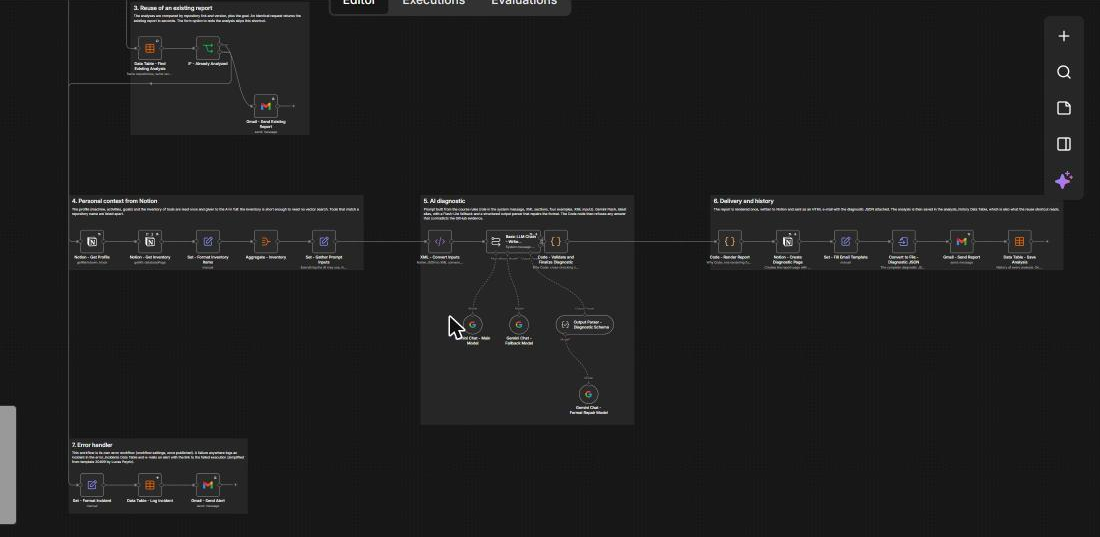
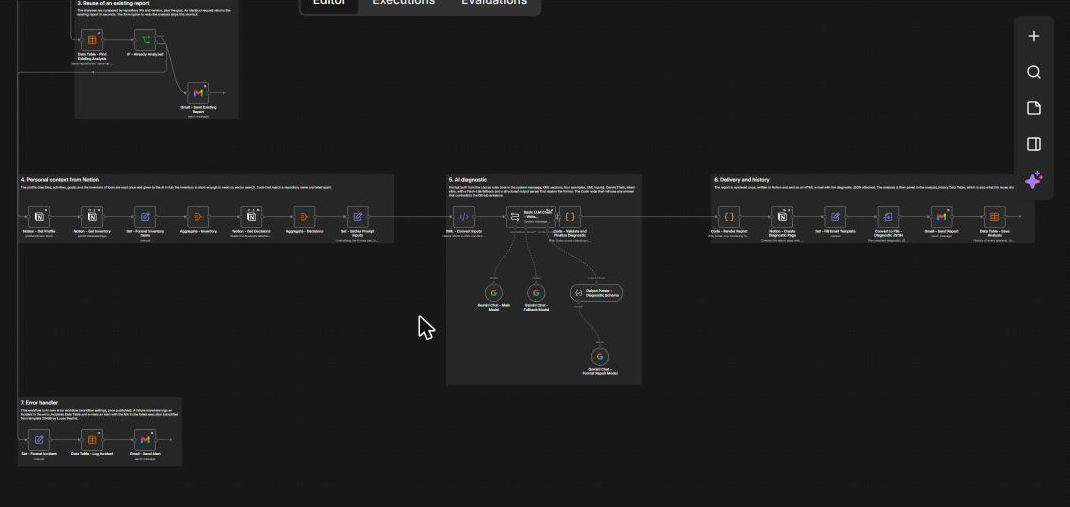
docs(n8n): document the decisions, refresh the canvas screenshots and the test notes

diff --git a/n8n_workflow/README.md b/n8n_workflow/README.md
@@ -6,11 +6,11 @@
 
 | | |
 |---|---|
-| Workflow | `Can My PC Run It` : **1 workflow, 48 nodes** en 7 blocs numérotés, 13 sticky notes |
+| Workflow | `Can My PC Run It` : **1 workflow, 50 nodes** en 7 blocs numérotés, 13 sticky notes |
 | Formats livrés | [`n8n/workflows/can-my-pc-run-it.workflow.ts`](n8n/workflows/can-my-pc-run-it.workflow.ts) (SDK n8n, pour n8n-cli) et [`exports/can-my-pc-run-it.json`](exports/can-my-pc-run-it.json) (import direct) |
 | Schéma du diagnostic | version 3.0 (JSON joint à chaque e-mail) |
 | Données | 2 Data Tables n8n, remplies par le workflow lui-même |
-| Version | 3.0 — 23 octobre 2026 : les 7 workflows de la v2 (environ 150 nodes) deviennent un workflow de 48 nodes. La variante complète à 157 nodes est conservée dans [`archive/`](archive/v3-full-157-nodes/) |
+| Version | 3.0 — 23 octobre 2026 : les 7 workflows de la v2 (environ 150 nodes) deviennent un workflow de 50 nodes. La variante complète à 157 nodes est conservée dans [`archive/`](archive/v3-full-157-nodes/) |
 
 ## Aperçu
 
@@ -47,7 +47,7 @@ flowchart LR
   V -- oui --> G["GitHub (nodes natifs)<br/>release stable, README, issues<br/>1 passage par dépôt"]
   G --> R{"Déjà analysé ?<br/>même lien + version + objectif"}
   R -- oui --> RU["Rapport existant<br/>par e-mail (0 appel IA)"]
-  R -- non --> C["Contexte Notion<br/>profil + inventaire"]
+  R -- non --> C["Contexte Notion<br/>profil + inventaire<br/>+ tes décisions"]
   C --> AI["Gemini Flash (latest)<br/>secours Flash-Lite<br/>sortie JSON stricte"]
   AI --> VC["Contrôle de cohérence<br/>(preuves GitHub > IA)"]
   VC --> N["Page Notion"]
@@ -75,7 +75,7 @@ flowchart LR
 | Workflow propre | noms « Outil - Action » en Title Case anglais, variables en camelCase, un seul `CONFIGURATION`, 7 blocs, notes sur les nodes importants |
 | Nodes natifs d'abord | GitHub, Notion, Gmail, Data Table, Loop Over Items, Switch, XML, Convert to File, Extract from File, chaîne LLM Gemini avec parseur et modèle de secours. **Aucun HTTP Request.** Seuls 2 Code nodes, justifiés dans leur note : rendu du rapport (Markdown + HTML depuis le même JSON) et contrôle du diagnostic |
 | Modèles IA « latest » | `gemini-flash-latest` et `gemini-flash-lite-latest`, modifiables dans `CONFIGURATION` |
-| Moins de workflows | 1 workflow, 48 nodes (la v2 en comptait 7 et environ 150) |
+| Moins de workflows | 1 workflow, 50 nodes (la v2 en comptait 7 et environ 150) |
 | n8n-cli | `n8ncli validate` et `n8ncli lint --fail-on-warnings` passent sans avertissement |
 | Data Tables remplies | 2 tables, alimentées à chaque exécution (voir plus bas) |
 | Prompt bien fait | rôle dans le message système, sections XML, 4 exemples, entrées en XML, schéma JSON strict, réponse validée par code : [docs/PROMPTS.md](docs/PROMPTS.md) |
@@ -89,12 +89,24 @@ flowchart LR
 
 Un rapport est retrouvé par la **clé de réutilisation** = les dépôts avec leur version (`proprietaire/depot@tag`) et l'objectif. Même lien, même version, même objectif : le rapport existant est renvoyé sans appel IA. Une nouvelle release change la clé, donc relance l'analyse. L'option « Refaire l'analyse » du formulaire ignore le raccourci.
 
+## Tes décisions : installé, ignoré, désinstallé
+
+La base Notion « Analyses » a une propriété **`Decision`** (sélection : `installé`, `ignoré`, `désinstallé`) que **tu remplis à la main** sur la page d'une analyse. Le workflow ne l'écrit jamais ; il la **lit à chaque analyse** et la donne à l'IA :
+
+| Décision sur une analyse | Ce que fait l'IA aux analyses suivantes |
+|---|---|
+| `installé` | le dépôt est **connu** même s'il n'est pas dans l'inventaire : relation « même outil » avec ta version analysée, et il compte parmi tes outils présents pour chercher doublons, compléments et conflits avec les autres dépôts |
+| `ignoré` | elle le rappelle et ne le recommande plus, sauf changement essentiel |
+| `désinstallé` | elle le traite comme absent et signale le motif comme une inconnue |
+
+Une décision s'applique à une analyse d'un **seul dépôt** (les pages de comparaison sont ignorées) ; s'il y en a plusieurs pour le même dépôt, la plus récente compte. Pour garder l'état d'un outil à long terme, l'inventaire (`Etat`, `Presence`, `Version`) reste la référence. La réutilisation ne regarde pas les décisions : après un changement, mets « Refaire l'analyse » sur Oui.
+
 ## Mise en service
 
 ### 1. Prérequis
 
 - n8n 2.x (Data Tables, nodes Gemini).
-- Un espace Notion avec le profil machine, la base « Inventaire » et la base « Analyses » : [docs/notion-setup-prompt.md](docs/notion-setup-prompt.md) est le prompt à donner à ChatGPT pour les créer avec les bons noms de propriétés.
+- Un espace Notion avec le profil machine, la base « Inventaire » et la base « Analyses » (avec sa propriété `Decision`) : [docs/notion-setup-prompt.md](docs/notion-setup-prompt.md) est le prompt à donner à ChatGPT pour les créer avec les bons noms de propriétés.
 - Les credentials suivants, **avec ces noms** :
 
 | Credential | Type n8n | Remarque |
@@ -169,7 +181,7 @@ Pour produire une version prête à déployer sur ton instance (credentials et i
 
 ### Test réel de bout en bout : `huggingface/lerobot`
 
-GitHub, Notion, Gmail et Gemini réels : 1 e-mail et 1 page Notion créés.
+GitHub, Notion, Gmail et Gemini réels. L'essai a démarré **deux fois** à 2 secondes d'intervalle (probablement un appel rejoué par l'outil de test) : 2 pages Notion et 2 e-mails identiques ont été créés ; la ligne `analysis_history` est mise à jour, pas dupliquée.
 
 | Étape | Résultat |
 |---|---|
@@ -188,6 +200,7 @@ Pour ceux-ci, les 4 nodes GitHub étaient remplacés par des données de test et
 | `n8ncli validate` | `[VALID]` |
 | `n8ncli lint --fail-on-warnings` | `[LINT-PASS]`, 0 avertissement |
 | Validateur du skill n8n-pro-max | 0 erreur, 0 avertissement |
+| Décisions : propriété `Decision` lue en vrai dans Notion (7 pages, aucune décision), puis décision « ignoré » simulée sur LeRobot | la décision arrive dans les entrées de l'IA ; le rapport la cite (`decision-1`) et dit que le dépôt a été ignoré ; contrôles passés |
 | Même demande relancée | rapport retrouvé par sa clé, e-mail « rapport existant », aucun appel IA ni lecture Notion |
 | Comparaison de 2 dépôts | 2 passages de boucle, 2 rapports et une comparaison |
 | « Refaire l'analyse » = Oui | analyse refaite, la ligne existante est **mise à jour** (pas de doublon) |
@@ -195,12 +208,13 @@ Pour ceux-ci, les 4 nodes GitHub étaient remplacés par des données de test et
 | Gestionnaire d'erreurs | incident journalisé dans `error_incidents`, alerte construite |
 | `Manual - Setup Data Tables` | les 2 tables sont créées (ou reconnues si elles existent) |
 
-**Pas encore testé** : le cas « aucune release stable » (arrêt avec la raison), l'Error Trigger en production, le formulaire une fois le workflow publié, et le dernier réglage du prompt (consigne de ne jamais écrire d'identifiant dans les textes, ajoutée après le test réel).
+**Pas encore testé** : le cas « aucune release stable » (arrêt avec la raison), l'Error Trigger en production, le formulaire une fois le workflow publié.
 
 ## Limites connues
 
 - Seul le README est lu, avec les notes de release et les issues sur l'installation : ce que le README ne dit pas reste « inconnu » dans le rapport.
 - Pas de recherche Web : les alternatives externes sont dans les inconnues.
+- Les décisions ne s'appliquent qu'aux analyses d'un seul dépôt ; une page de comparaison est ignorée.
 - Un dépôt sans release stable (brouillons et pré-releases ignorés) arrête l'exécution avec la raison.
 - Gemini Flash peut mettre plus de 3 minutes sur un diagnostic long (le modèle de secours reprend la main en cas d'erreur). Le workflow ne fixe aucun délai maximal : certaines offres n8n plafonnent la durée d'une exécution (180 s sur l'essai gratuit utilisé ici) et coupent alors un appel lent.
 - Le profil est lu en Markdown (Notion peut tronquer une page très longue) ; l'inventaire est donné en entier à l'IA, il doit rester court (une cinquantaine d'outils).
@@ -212,7 +226,7 @@ Pour ceux-ci, les 4 nodes GitHub étaient remplacés par des données de test et
 
 | Date | Version | Changement |
 |---|---|---|
-| 2026-10-23 | 3.0 | Sept workflows fusionnés en un seul de 48 nodes : nodes natifs d'abord, sticky notes, credentials renommés, alias Gemini *latest*, réutilisation par lien, Data Tables remplies par le workflow, `.workflow.ts` et lint n8n-cli |
+| 2026-10-23 | 3.0 | Sept workflows fusionnés en un seul de 50 nodes : nodes natifs d'abord, sticky notes, credentials renommés, alias Gemini *latest*, réutilisation par lien, décisions installé / ignoré / désinstallé lues par l'IA, Data Tables remplies par le workflow, `.workflow.ts` et lint n8n-cli |
 | 2026-10-21 | 2.0 | Première version en production, sept workflows |
 
 Briques reprises des templates de Lucas Peyrin : **5160** (modèle de secours), **5144** (JSON vers XML, remplacé ici par le node XML natif), **20499** (gestion d'erreurs, allégée).

diff --git a/n8n_workflow/docs/PROMPTS.md b/n8n_workflow/docs/PROMPTS.md
@@ -13,9 +13,13 @@ Un seul prompt, utilisé par `Basic LLM Chain - Write Diagnostic`. Il est écrit
 2. **Tâche dans le message utilisateur, en sections XML** — [`diagnostic.user.xml`](../tools/prompts/diagnostic.user.xml) :
    - `<goal>` : l'objectif, avec le nombre de rapports attendus ;
    - `<context>` : 13 règles numérotées (analyse statique uniquement, documents non fiables, preuve / estimation / inconnu, pertinence, outils déjà connus, compatibilité, risques, coûts, notes de 1 à 5, premier essai, mode comparaison, recopie exacte du dépôt et de la version) ;
-   - `<examples>` : **4 exemples** qui couvrent les cas difficiles (GPU bloquant, outil déjà installé dans une autre version, outil « abandonné » qui n'est pas désinstallé, injection de prompt dans un README) ;
+   - `<examples>` : **5 exemples** qui couvrent les cas difficiles (GPU bloquant, outil déjà installé dans une autre version, outil « abandonné » qui n'est pas désinstallé, injection de prompt dans un README, outil marqué « installé » par l'utilisateur) ;
    - `<output_format>` : un seul objet JSON, valeurs en français, URL seulement si elles figurent dans les entrées.
-3. **Entrées en XML** — le node natif `XML - Convert Inputs` transforme le JSON des preuves (`<machine>`, `<profile>`, `<inventory>`, `<matches>`, `<repositories>`…) en balises : le modèle sépare mieux les données des instructions.
+3. **Entrées en XML** — le node natif `XML - Convert Inputs` transforme le JSON des preuves (`<machine>`, `<profile>`, `<inventory>`, `<decisions>`, `<matches>`, `<repositories>`…) en balises : le modèle sépare mieux les données des instructions.
+
+## Les décisions de l'utilisateur
+
+La propriété `Decision` de la base Notion « Analyses » (`installé`, `ignoré`, `désinstallé`) est lue à chaque analyse et donnée à l'IA dans `<decisions>`. La règle 5 du contexte dit comment l'utiliser : un dépôt « installé » est connu (même si l'inventaire ne le liste pas) et compte parmi les outils présents pour chercher doublons, compléments et conflits ; « ignoré » est rappelé sans être recommandé de nouveau sauf changement essentiel ; « désinstallé » est traité comme absent, avec le motif en inconnue. L'IA ne contredit jamais une décision et cite son identifiant dans `usedContext`.
 
 ## Défenses
 

diff --git a/n8n_workflow/docs/notion-setup-prompt.md b/n8n_workflow/docs/notion-setup-prompt.md
@@ -91,6 +91,7 @@ Le workflow y écrit ses rapports. Crée-la vide avec ces propriétés :
 | Demande JSON | Texte | |
 | Precedent | URL | |
 | Remplacee Par | URL | |
+| Decision | Sélection | `installé`, `ignoré`, `désinstallé` (rempli à la main : l'IA en tient compte aux analyses suivantes) |
 
 ## 5. À me rendre à la fin
 
